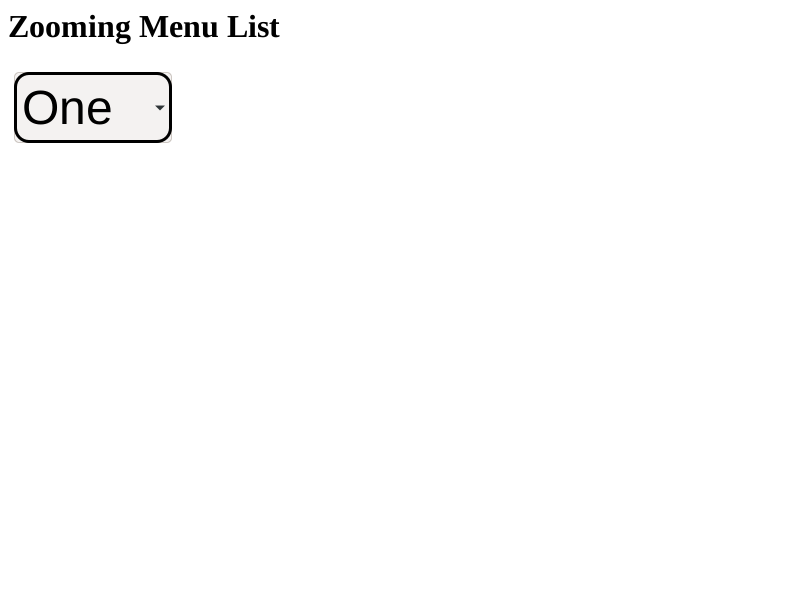
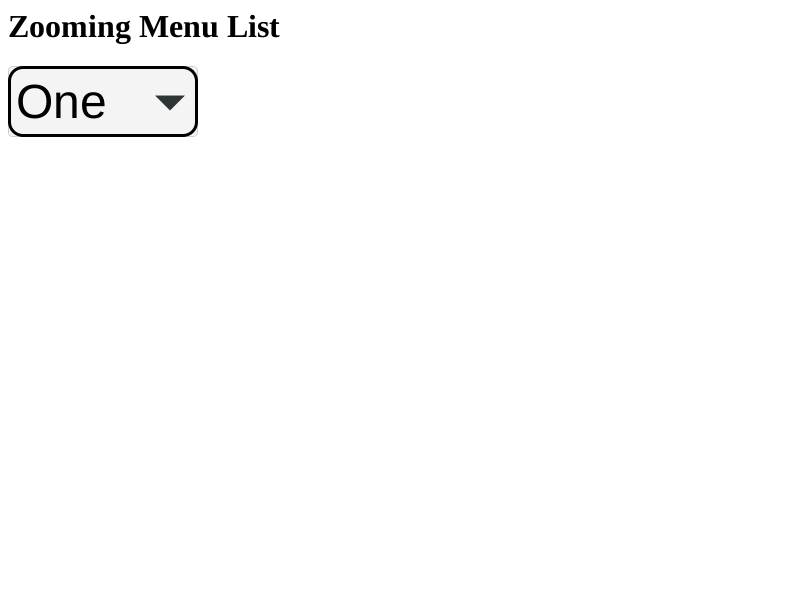
ThemeAdwaita: checkbox, radio and inner spin button don't scale along by page zoom https://bugs.webkit.org/show_bug.cgi?id=246679
Reviewed by Carlos Garcia Campos.

ThemeAdwaita should scale controls based on a given zoom factor. Scale
buttons for input elements with type=number, type=checkbox, type=radio
and datalist, and select elements.

ThemeAdwaita::paintArrow painted a 16x16 arrow at (0, 0) position.
Change it to take a rect and paint an arrow at the center of the rect,
fitting to the smaller edge.

* Source/WebCore/platform/adwaita/ThemeAdwaita.cpp:
(WebCore::ThemeAdwaita::paintArrow):
(WebCore::ThemeAdwaita::controlSize const):
(WebCore::ThemeAdwaita::paintSpinButton):
* Source/WebCore/platform/adwaita/ThemeAdwaita.h:
* Source/WebCore/rendering/RenderThemeAdwaita.cpp:
(WebCore::RenderThemeAdwaita::paintTextField):
(WebCore::RenderThemeAdwaita::popupInternalPaddingBox const):
(WebCore::RenderThemeAdwaita::paintMenuList):
* LayoutTests/platform/gtk/transforms/2d/zoom-menulist-expected.png:
* LayoutTests/platform/gtk/transforms/2d/zoom-menulist-expected.txt:

Canonical link: https://commits.webkit.org/255820@main

Changed region(s): [[0.0, 0.09, 0.25, 0.24]]

diff --git a/Source/WebCore/platform/adwaita/ThemeAdwaita.cpp b/Source/WebCore/platform/adwaita/ThemeAdwaita.cpp
@@ -132,19 +132,34 @@ void ThemeAdwaita::paintFocus(GraphicsContext& graphicsContext, const Vector<Flo
     paintFocus(graphicsContext, path, color);
 }
 
-void ThemeAdwaita::paintArrow(GraphicsContext& graphicsContext, ArrowDirection direction, bool useDarkAppearance)
+void ThemeAdwaita::paintArrow(GraphicsContext& graphicsContext, const FloatRect& rect, ArrowDirection direction, bool useDarkAppearance)
 {
+    auto offset = rect.location();
+    float size;
+    if (rect.width() > rect.height()) {
+        size = rect.height();
+        offset.move((rect.width() - size) / 2, 0);
+    } else {
+        size = rect.width();
+        offset.move(0, (rect.height() - size) / 2);
+    }
+    float zoomFactor = size / arrowSize;
+    auto transform = [&](FloatPoint point) {
+        point.scale(zoomFactor);
+        point.moveBy(offset);
+        return point;
+    };
     Path path;
     switch (direction) {
     case ArrowDirection::Down:
-        path.moveTo({ 3, 6 });
-        path.addLineTo({ 13, 6 });
-        path.addLineTo({ 8, 11 });
+        path.moveTo(transform({ 3, 6 }));
+        path.addLineTo(transform({ 13, 6 }));
+        path.addLineTo(transform({ 8, 11 }));
         break;
     case ArrowDirection::Up:
-        path.moveTo({ 3, 10 });
-        path.addLineTo({ 8, 5 });
-        path.addLineTo({ 13, 10});
+        path.moveTo(transform({ 3, 10 }));
+        path.addLineTo(transform({ 8, 5 }));
+        path.addLineTo(transform({ 13, 10 }));
         break;
     }
     path.closeSubpath();
@@ -163,15 +178,15 @@ LengthSize ThemeAdwaita::controlSize(ControlPart part, const FontCascade& fontCa
     case RadioPart: {
         LengthSize buttonSize = zoomedSize;
         if (buttonSize.width.isIntrinsicOrAuto())
-            buttonSize.width = Length(12, LengthType::Fixed);
+            buttonSize.width = Length(12 * zoomFactor, LengthType::Fixed);
         if (buttonSize.height.isIntrinsicOrAuto())
-            buttonSize.height = Length(12, LengthType::Fixed);
+            buttonSize.height = Length(12 * zoomFactor, LengthType::Fixed);
         return buttonSize;
     }
     case InnerSpinButtonPart: {
         LengthSize spinButtonSize = zoomedSize;
         if (spinButtonSize.width.isIntrinsicOrAuto())
-            spinButtonSize.width = Length(static_cast<int>(arrowSize), LengthType::Fixed);
+            spinButtonSize.width = Length(static_cast<int>(arrowSize * zoomFactor), LengthType::Fixed);
         if (spinButtonSize.height.isIntrinsicOrAuto() || fontCascade.pixelSize() > static_cast<int>(arrowSize))
             spinButtonSize.height = Length(fontCascade.pixelSize(), LengthType::Fixed);
         return spinButtonSize;
@@ -492,14 +507,7 @@ void ThemeAdwaita::paintSpinButton(ControlStates& states, GraphicsContext& graph
             path.clear();
         }
 
-        GraphicsContextStateSaver buttonStateSaver(graphicsContext);
-        if (buttonRect.height() > arrowSize)
-            graphicsContext.translate(buttonRect.x(), buttonRect.y() + (buttonRect.height() / 2.0) - (arrowSize / 2.));
-        else {
-            graphicsContext.translate(buttonRect.x(), buttonRect.y());
-            graphicsContext.scale(FloatSize::narrowPrecision(buttonRect.width() / arrowSize, buttonRect.height() / arrowSize));
-        }
-        paintArrow(graphicsContext, ArrowDirection::Up, useDarkAppearance);
+        paintArrow(graphicsContext, buttonRect, ArrowDirection::Up, useDarkAppearance);
     }
 
     buttonRect.move(0, buttonRect.height());
@@ -510,18 +518,13 @@ void ThemeAdwaita::paintSpinButton(ControlStates& states, GraphicsContext& graph
                 graphicsContext.setFillColor(spinButtonBackgroundPressedColor);
             else if (states.states().contains(ControlStates::States::Hovered))
                 graphicsContext.setFillColor(spinButtonBackgroundHoveredColor);
+            else
+                graphicsContext.setFillColor(spinButtonBackgroundColor);
             graphicsContext.fillPath(path);
             path.clear();
         }
 
-        GraphicsContextStateSaver buttonStateSaver(graphicsContext);
-        if (buttonRect.height() > arrowSize)
-            graphicsContext.translate(buttonRect.x(), buttonRect.y() + (buttonRect.height() / 2.0) - (arrowSize / 2.));
-        else {
-            graphicsContext.translate(buttonRect.x(), buttonRect.y());
-            graphicsContext.scale(FloatSize::narrowPrecision(buttonRect.width() / arrowSize, buttonRect.height() / arrowSize));
-        }
-        paintArrow(graphicsContext, ArrowDirection::Down, useDarkAppearance);
+        paintArrow(graphicsContext, buttonRect, ArrowDirection::Down, useDarkAppearance);
     }
 }
 

diff --git a/Source/WebCore/rendering/RenderThemeAdwaita.cpp b/Source/WebCore/rendering/RenderThemeAdwaita.cpp
@@ -354,18 +354,14 @@ bool RenderThemeAdwaita::paintTextField(const RenderObject& renderObject, const 
 
 #if ENABLE(DATALIST_ELEMENT)
     if (is<HTMLInputElement>(renderObject.generatingNode()) && downcast<HTMLInputElement>(*(renderObject.generatingNode())).list()) {
+        auto zoomedArrowSize = menuListButtonArrowSize * renderObject.style().effectiveZoom();
         FloatRect arrowRect = rect;
         if (renderObject.style().direction() == TextDirection::LTR)
-            arrowRect.move(arrowRect.width() - (menuListButtonArrowSize + textFieldBorderSize * 2), (arrowRect.height() / 2.) - (menuListButtonArrowSize / 2.));
+            arrowRect.move(arrowRect.width() - (zoomedArrowSize + textFieldBorderSize * 2), 0);
         else
-            fieldRect.move(textFieldBorderSize * 2, (arrowRect.height() / 2.) - (menuListButtonArrowSize / 2.));
-        arrowRect.setWidth(menuListButtonArrowSize);
-        arrowRect.setHeight(menuListButtonArrowSize);
-        {
-            GraphicsContextStateSaver arrowStateSaver(graphicsContext);
-            graphicsContext.translate(arrowRect.x(), arrowRect.y());
-            ThemeAdwaita::paintArrow(graphicsContext, ThemeAdwaita::ArrowDirection::Down, renderObject.useDarkAppearance());
-        }
+            fieldRect.move(textFieldBorderSize * 2, 0);
+        arrowRect.setWidth(zoomedArrowSize);
+        ThemeAdwaita::paintArrow(graphicsContext, arrowRect, ThemeAdwaita::ArrowDirection::Down, renderObject.useDarkAppearance());
     }
 #endif
 
@@ -417,8 +413,9 @@ LengthBox RenderThemeAdwaita::popupInternalPaddingBox(const RenderStyle& style, 
     if (style.effectiveAppearance() == NoControlPart)
         return { };
 
-    int leftPadding = menuListButtonPadding + (style.direction() == TextDirection::RTL ? menuListButtonArrowSize : 0);
-    int rightPadding = menuListButtonPadding + (style.direction() == TextDirection::LTR ? menuListButtonArrowSize : 0);
+    auto zoomedArrowSize = menuListButtonArrowSize * style.effectiveZoom();
+    int leftPadding = menuListButtonPadding + (style.direction() == TextDirection::RTL ? zoomedArrowSize : 0);
+    int rightPadding = menuListButtonPadding + (style.direction() == TextDirection::LTR ? zoomedArrowSize : 0);
 
     return { menuListButtonPadding, rightPadding, menuListButtonPadding, leftPadding };
 }
@@ -438,19 +435,15 @@ bool RenderThemeAdwaita::paintMenuList(const RenderObject& renderObject, const P
     ControlStates controlStates(states);
     Theme::singleton().paint(ButtonPart, controlStates, graphicsContext, rect, 1., nullptr, 1., 1., false, renderObject.useDarkAppearance(), renderObject.style().effectiveAccentColor());
 
+    auto zoomedArrowSize = menuListButtonArrowSize * renderObject.style().effectiveZoom();
     FloatRect fieldRect = rect;
     fieldRect.inflate(menuListButtonBorderSize);
     if (renderObject.style().direction() == TextDirection::LTR)
-        fieldRect.move(fieldRect.width() - (menuListButtonArrowSize + menuListButtonPadding), (fieldRect.height() / 2.) - (menuListButtonArrowSize / 2));
+        fieldRect.move(fieldRect.width() - (zoomedArrowSize + menuListButtonPadding), 0);
     else
-        fieldRect.move(menuListButtonPadding, (fieldRect.height() / 2.) - (menuListButtonArrowSize / 2));
-    fieldRect.setWidth(menuListButtonArrowSize);
-    fieldRect.setHeight(menuListButtonArrowSize);
-    {
-        GraphicsContextStateSaver arrowStateSaver(graphicsContext);
-        graphicsContext.translate(fieldRect.x(), fieldRect.y());
-        ThemeAdwaita::paintArrow(graphicsContext, ThemeAdwaita::ArrowDirection::Down, renderObject.useDarkAppearance());
-    }
+        fieldRect.move(menuListButtonPadding, 0);
+    fieldRect.setWidth(zoomedArrowSize);
+    ThemeAdwaita::paintArrow(graphicsContext, fieldRect, ThemeAdwaita::ArrowDirection::Down, renderObject.useDarkAppearance());
 
     if (isFocused(renderObject))
         ThemeAdwaita::paintFocus(graphicsContext, rect, menuListButtonFocusOffset, platformFocusRingColor({ }));

diff --git a/Source/WebCore/platform/adwaita/ThemeAdwaita.h b/Source/WebCore/platform/adwaita/ThemeAdwaita.h
@@ -41,7 +41,7 @@ public:
     static void paintFocus(GraphicsContext&, const Path&, const Color&);
     static void paintFocus(GraphicsContext&, const Vector<FloatRect>&, const Color&, PaintRounded = PaintRounded::No);
     enum class ArrowDirection { Up, Down };
-    static void paintArrow(GraphicsContext&, ArrowDirection, bool);
+    static void paintArrow(GraphicsContext&, const FloatRect&, ArrowDirection, bool);
 
     virtual void platformColorsDidChange() { };
 
